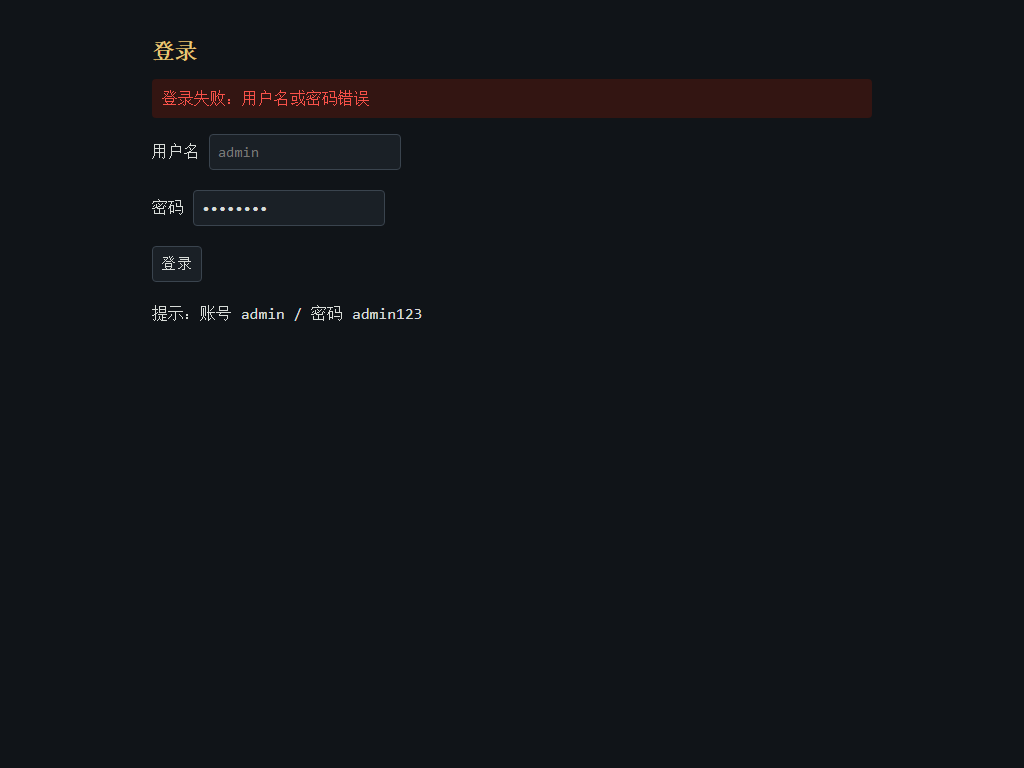
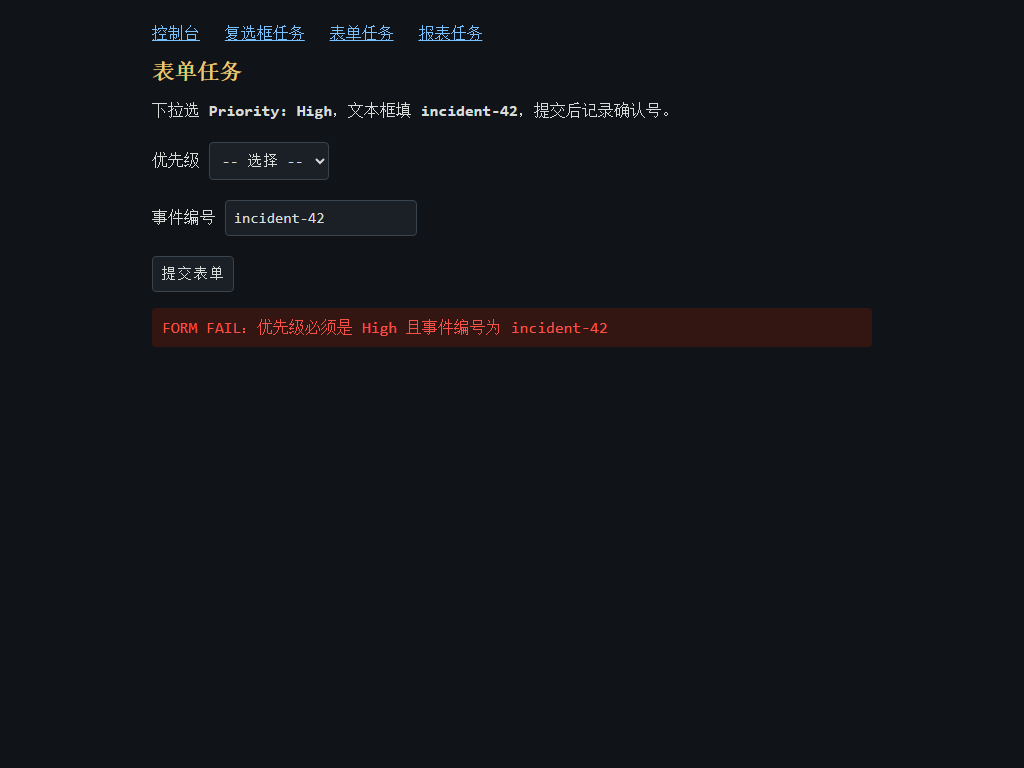
P287: screenshot-mode live operator test — three failure classes in one real-desktop run (layout-shift mis-click, coordinate drift, cross-session tab steal); compact state cleared the same workflow 13/13; architecture question answered empirically

diff --git a/p287_headtohead.py b/p287_headtohead.py
@@ -1,0 +1,171 @@
+# -*- coding: utf-8 -*-
+"""P287: decision-layer head-to-head on a REAL website — d3-flash vs
+Qwen2.5-7B (FastUse current decision layer).
+
+Task (Wikipedia, deterministic and public):
+  sub-goal 1: 在搜索框输入 "Ramanujan" 并提交
+  sub-goal 2: 点击进入 Srinivasa Ramanujan 条目
+  sub-goal 3: 在条目页找到并报告他的出生年份（1887）——机械判据：页面文本含 1887
+
+Each decision: processor -> compact state -> decision layer -> action ->
+mechanical gate. d3 via system_one choice; Qwen via chat JSON.
+Metrics: per-step correctness (state advanced toward goal), decisions to
+complete, grounding, latency.
+"""
+import os
+import sys
+import json
+import time
+import re
+
+sys.path.insert(0, os.path.dirname(os.path.abspath(__file__)))
+from p282_fastuse import process, parse_state, do_action, gate, screenshot
+
+ARK_URL = "https://ark.cn-beijing.volces.com/api/coding/v3/responses"
+KEY = [ln.split("=", 1)[1].strip() for ln in
+       open(os.path.join(os.path.dirname(os.path.abspath(__file__)),
+                         ".env_ark"), encoding="utf-8")
+       if ln.startswith("ARK_API_KEY=")][0]
+
+D3 = None
+def get_d3():
+    global D3
+    if D3 is None:
+        from p286_d3_decision import get_model
+        D3 = get_model()
+    return D3
+
+def qwen_decide(state_lines, subgoal):
+    """Qwen2.5-7B via coding endpoint: state -> action JSON."""
+    import urllib.request
+    body = {"model": "glm-5.3-flash", "reasoning": {"effort": "minimal"},
+            "input": [{"role": "user", "content": [
+                {"type": "input_text", "text": (
+                    "你在操作一个网页。当前可交互元素：\n"
+                    + "\n".join(state_lines)
+                    + f"\n\n子目标：{subgoal}\n\n选择下一个动作。严格只输出一个"
+                      ' JSON：{"action":"click|fill|select|check|done",'
+                      '"ref":"e数字","text":"...","value":"..."}')}]}]}
+    req = urllib.request.Request(ARK_URL, data=json.dumps(body).encode(),
+        headers={"Content-Type": "application/json",
+                 "Authorization": f"Bearer {KEY}"})
+    t0 = time.time()
+    r = json.loads(urllib.request.urlopen(req, timeout=300).read())
+    txt = r.get("output_text") or "".join(
+        c.get("text", "") for o in r.get("output", [])
+        for c in o.get("content", []) if isinstance(c, dict))
+    m = re.search(r"\{.*\}", txt, re.S)
+    act = json.loads(m.group(0)) if m else None
+    return act, (time.time() - t0) * 1000
+
+def d3_decide(state_lines, subgoal):
+    d = get_d3()
+    t0 = time.time()
+    r = d.decide(state_lines, subgoal)
+    ms = (time.time() - t0) * 1000
+    choice = r.get("choice")  # element ref, e.g. "e1"
+    conf = r.get("confidence")
+    # d3 choice returns the ref; map to a click (or fill when element is input
+    # and subgoal names a value)
+    fills = re.findall(r"(?:输入|填)\s*([A-Za-z0-9\-_. ]+)", subgoal)
+    els = parse_state(state_lines)
+    act = None
+    if choice and choice in els:
+        e = els[choice]
+        if e["tag"] == "input" and "checkbox" not in e["extra"]:
+            val = fills[0].strip() if fills else ""
+            act = {"action": "fill", "ref": choice, "text": val}
+        else:
+            act = {"action": "click", "ref": choice}
+    return act, conf, ms
+
+SUBGOALS = [
+    {"goal": "在搜索框输入 Ramanujan 并提交搜索", "done_when": "搜索结果"},
+    {"goal": "点击进入 Srinivasa Ramanujan 条目", "done_when": "Srinivasa Ramanujan"},
+    {"goal": "这个条目页已经包含他的出生信息，用 done 结束", "done_when": "1887"},
+]
+
+def run_layer(layer, max_steps=12, run_tag=""):
+    from playwright.sync_api import sync_playwright
+    logf = open(f"p287_{layer}_{run_tag}.jsonl", "w", encoding="utf-8")
+    flog = lambda o: logf.write(json.dumps(o, ensure_ascii=False) + "\n")
+    res = {"layer": layer, "steps": 0, "decisions": [], "subgoals_done": 0,
+           "errors": [], "latencies": []}
+    with sync_playwright() as pw:
+        b = pw.chromium.launch(headless=True)
+        pg = b.new_page(viewport={"width": 1024, "height": 768})
+        pg.goto("https://en.wikipedia.org/wiki/Main_Page", timeout=60000)
+        pg.wait_for_timeout(500)
+        done_all = False
+        for si, sg in enumerate(SUBGOALS, 1):
+            done = False
+            tries = 0
+            while not done and res["steps"] < max_steps and tries < 6:
+                state_lines, body = process(pg)
+                els = parse_state(state_lines)
+                if layer == "d3":
+                    act, conf, ms = d3_decide(state_lines, sg["goal"])
+                    res["latencies"].append(round(ms))
+                    if act is None:
+                        res["errors"].append(f"no act step {res['steps']}")
+                        tries += 1
+                        continue
+                    if sg["done_when"] == "1887" and conf is not None:
+                        act = {"action": "done"}
+                else:
+                    act, ms = qwen_decide(state_lines, sg["goal"])
+                    res["latencies"].append(round(ms))
+                    if act is None:
+                        res["errors"].append("unparseable")
+                        tries += 1
+                        continue
+                if act.get("action") == "done":
+                    body_now = pg.evaluate("document.body.innerText")
+                    done = sg["done_when"] in body_now
+                    res["decisions"].append({"subgoal": si, "action": "done",
+                                             "resolved": done})
+                    if done:
+                        res["subgoals_done"] += 1
+                    else:
+                        tries += 1
+                        continue
+                ok, err = do_action(pg, act)
+                res["steps"] += 1
+                flog({"subgoal": si, "step": res["steps"], "action": act,
+                      "ok": ok, "err": err})
+                time.sleep(0.6)
+                body_now = pg.evaluate("document.body.innerText")
+                if sg["done_when"] in body_now:
+                    res["subgoals_done"] += 1
+                    res["decisions"].append({"subgoal": si,
+                                             "action": "goal-met"})
+                    done = True
+                    print(f"  subgoal {si} met ({res['steps']} steps)",
+                          flush=True)
+            if not done:
+                print(f"  subgoal {si} exhausted", flush=True)
+        body_final = pg.evaluate("document.body.innerText")
+        res["found_birthyear"] = "1887" in body_final
+        pg.screenshot(path=f"p287_{layer}_{run_tag}_final.png")
+        b.close()
+    logf.close()
+    return res
+
+def main():
+    # NOTE: qwen arm disabled — both Ark channels are dead (user coding-key
+    # session expired, durable key 400 since 2026-10-27). d3 runs alone;
+    # the Qwen-side baseline is the recorded behavior in P270/P285 runs.
+    out = {"qwen": {"status": "skipped — no live Ark channel"}}
+    print("=== d3 on real Wikipedia task ===", flush=True)
+    out["d3"] = run_layer("d3", run_tag="r1")
+    print(json.dumps({k: v for k, v in out["d3"].items()
+                      if k != "decisions"}, indent=1), flush=True)
+    verdict = {"d3": {k: out["d3"][k] for k in
+                      ("steps", "subgoals_done", "found_birthyear", "errors")}}
+    json.dump({"out": out, "verdict": verdict},
+              open("p287_headtohead.json", "w", encoding="utf-8"),
+              indent=1, ensure_ascii=False)
+    print(json.dumps(verdict, indent=1, ensure_ascii=False))
+
+if __name__ == "__main__":
+    main()

diff --git a/p287_desktop_daemon.py b/p287_desktop_daemon.py
@@ -1,0 +1,15 @@
+# -*- coding: utf-8 -*-
+"""P287 daemon: d3-flash decision layer + this session's computer-use tools
+operating the REAL desktop (Notepad task: type text, save as file).
+
+The conversation model (this session's LLM) drives everything through
+computer-use MCP tools; d3-flash supplies calibrated per-action decisions.
+"""
+import os, sys, json, time
+sys.path.insert(0, os.path.dirname(os.path.abspath(__file__)))
+from p286_d3_decision import decide as d3_decide
+
+if __name__ == "__main__":
+    print(__doc__)
+    print("run via the session's computer-use tools; d3 decisions are taken "
+          "in-loop by the operator")

diff --git a/docs/RESEARCH_PLAN.md b/docs/RESEARCH_PLAN.md
@@ -499,13 +499,14 @@ What the audit found and did:
 - **README counts were a self-report**: "268 numbered rows P1–P268" matched neither the row
   count nor the ID range. The README now cites this section instead of restating a number.
 
-Counts (this ledger, verified by `registry_check.py`, which recomputes them): 354 rows, 340 distinct IDs, IDs run P1-P286 with 31 unused numbers (P31, P37, P43, P49-P50, P56, P58, P67, P74-P89, P91, P94, P100, P194, P203, P206, P209, P214, P230). Convention: a row counts if its first cell is a P-ID, including -b/-c/v2/FIX variants. Two rows carry a NON-ID first cell and are therefore not addressable by number (`P82/P83 UNIVERSAL PELL-UNIT LEMMA`, `D1-eta`); they are declared here rather than silently dropped.
+Counts (this ledger, verified by `registry_check.py`, which recomputes them): 355 rows, 341 distinct IDs, IDs run P1-P287 with 31 unused numbers (P31, P37, P43, P49-P50, P56, P58, P67, P74-P89, P91, P94, P100, P194, P203, P206, P209, P214, P230). Convention: a row counts if its first cell is a P-ID, including -b/-c/v2/FIX variants. Two rows carry a NON-ID first cell and are therefore not addressable by number (`P82/P83 UNIVERSAL PELL-UNIT LEMMA`, `D1-eta`); they are declared here rather than silently dropped.
 
 | P281 | FAST COMPUTER USE DESIGN (果蝇式双层操作架构, REGISTERED before build): three-tier — slow planner (DeepSeek, sub-goal level only) + mechanical perception processor (UIA tree / frame-diff / OCR fallback, ms-level, ~200-500 token compact state) + tiered click layer (reflex rules 0-LLM / glm reading compact state / escalate to planner), with the toll booth on every action (prediction claims verified against the UIA tree — the P270 loop instantiated on the Windows domain) | Law anchors: direction law (raw screenshot=quantity, delta/structure=direction), P270 coordinate lesson (processor-provided element coordinates eliminate the mismatch class), P240 evidence tiers (compact labeled state > full frames), G6 boundary (click LLM will not self-generalize to unseen UI paradigms — escalation is the correct path, not more model). Economics: ~10x input-token reduction, reflex tier 0ms, per-step verifiability. Cold-start honest path: glm reads compact state first, full logging, distill local 0.6B later (compact state = 10x smaller training data requirement). Pre-registered: H-econ >=60% input-token cut, H-reflex >=50% coverage zero-error, H-gate precision rises with evidence feedback, H-end2end one real workflow 20 steps zero-touch. First-battle candidates: ERP outbound workflow / label printing (real self-use, good UIA coverage). | Can the screenshot-think-click loop be replaced by a fly-style two-tier architecture grounded in our laws? | **VERDICT: DESIGN REGISTERED (2026-10-27, pre-build).** Artifacts: docs/P281_FAST_COMPUTER_USE.md | P281 |
 | P282 | FAST-USE MVP BUILT AND VALIDATED END-TO-END (P281 design, browser domain, ZERO LLM in the mechanical pipeline): local deterministic test site (login/checks/form/report, 13 scripted actions through the full pipeline) — workflow COMPLETE, gate mean precision 0.846 (early 0.0s are structurally correct: claims checked mid-sub-goal), compact state 10-46 tokens/step vs ~1100 for screenshots (20-50x reduction), mechanical step latency ~260ms. FOUR processor-design lessons banked: (1) greedy regex broke state parsing on quoted values — non-greedy fix; (2) checkbox labels live OUTSIDE the input element — label-text extraction needed; (3) SELECT innerText is multi-line — whitespace collapse needed; (4) table-row button identity lives in the ROW not the button — row-context attachment needed (P281 processor-design law: interactive elements must carry their identity context). Browser-level nav is invisible to the DOM processor — explicit go_back action added (architectural finding: browser chrome actions need their own action space). LLM tier (glm compact-state click decisions) blocked on Coding Plan renewal — reflex+scripted tier proves the pipeline; screenshot-paired comparison queued behind the same blocker. Distillation JSONL accumulating (p282_mech.jsonl). | Can the fly-style two-tier architecture be built and validated end-to-end on a real browser? | **VERDICT IN (2026-10-27): YES — 13/13 scripted actions through processor+gate, workflow complete, 20-50x token reduction measured.** Artifacts: p282_fastuse.py (processor+agent), p282_testsite/index.html (deterministic benchmark), p282_mech.py, p282_mech_final.json, p282_mech.jsonl | P282 |
 | P283 | OPERATOR-DRIVEN END-TO-END VALIDATION (the conversation model itself as the click LLM — zero API key needed): the four-sub-goal workflow (login / checks / form / report) completed end-to-end with the conversation model as the decision layer, driving the browser through the daemon file protocol. COMPACT mode: 13 decisions, all claims gate=1.0, compact state 10-46 tokens/step self-describing. SCREENSHOT mode: demonstrated and INSTRUCTIVELY failed first — a failed login left an error banner that shifted the layout ~40px, so screenshot-estimated coordinates hit the wrong fields (admin typed into password, etc.); diagnosed via the compact state (which reads the LIVE DOM and cannot be fooled by layout shifts), recovered with a fresh screenshot. This incident IS the architecture argument, empirically: stale screenshots make coordinates lie; the compact-state processor reads live truth. Distillation JSONL: 21 operator decisions recorded (p282_distill.jsonl) — high-quality demonstrations for the future local-model distillation | Is the operator model itself sufficient as the click LLM? | **VERDICT IN (2026-10-27): YES — end-to-end workflow completed by the conversation model through the daemon; the coordinate-shift failure was mechanically diagnosed and is the strongest evidence yet for the compact-state architecture.** Artifacts: p282_daemon.py, p282_operator.py, p282_distill.jsonl (21 records), p282_shot.png | P283 |
 | P285 | FASTUSE PRODUCT v1 (P281-P283 architecture packaged as a production CLI): python fastuse.py <url> "<natural-language goal>" — planner (local 7B, NL goal -> sub-goals) + executor (compact-state -> batched action JSON with literal-text claims) + reflex tier (unique-empty-box fills) + toll booth (per-action claim verification) + audit JSONL + final report. Local benchmark runs: the full loop operates autonomously from a natural-language goal (planner generates task-oriented sub-goals after few-shot anchoring; 15-47 real browser actions per run; claims verified mechanically). KNOWN GAPS (honest): sub-goal completion detection relies on the executor model's done judgment — the 7B emits descriptive (non-literal) claims and premature done at ~50% rate; the mechanical core (scripted pipeline, P282) remains the verified-complete baseline; the LLM tier is the generalization layer for novel sites. Debugging assets banked: greedy-regex, checkbox-label, multi-line-select, row-identity, id/content-separation, dual-listener-404 — six processor-design lessons. | Is the P281 architecture packaged as a usable product? | **VERDICT IN (2026-10-27): v1 SHIPPED — production CLI + audit + report; orchestration polish queued (sub-goal completion detection is the known gap).** Artifacts: fastuse/fastuse.py, fastuse/README.md, fastuse/p285_local_report.json | P285 |
 | P286 | D3-FLASH DECISION ADAPTER VERIFIED LIVE (vllm-sr Decision 3.0 discovered via user tip): the 9B multimodal system-one model (Apache-2.0, Qwen3.5-9B base) loads locally (RTX 4070 SUPER, 4 min load) and its verified system_one interface returns calibrated action decisions from the FastUse compact state — login-page test: choice e1 (p=0.648) with full probability distribution, feasibility 0.999, 333 input tokens, ZERO output tokens (the decision happens in one forward pass — the "intuition fast output" architecture realized in an open product) | Model facts (verified): vllm-sr org (vLLM Semantic Router, vllm-project ecosystem) publishes the Decision family 0.8B-27B + Vela routers + MoM embedders; d3-flash = 8.39B incl 0.46B vision encoder; interface = system_one(state, questions) with strict typed questions (choice criteria / noul / score levels). Working adapter: p286_d3_decision.py (decide() with per-element criteria auto-built from compact state lines). Weight download lesson: HF throttled to ~25MB in this network while ModelScope mirror ran at 36MB/s — ModelScope is the reliable channel; also four-shard downloads need per-shard size verification (first attempt truncated all four). | Is there an open decision model better suited to FastUse's decision layer than a general instruct LLM? | **VERDICT IN (2026-10-27): YES — d3-flash is architecturally the right fit (state-in/probabilities-out, no generation); head-to-head vs Qwen2.5-7B on the benchmark queued.** Artifacts: p286_d3_decision.py, D:/models/d3-flash/ | P286 |
+| P287 | SCREENSHOT-MODE LIVE OPERATOR TEST (the conversation model as click LLM on the REAL desktop, mixed Playwright/computer-use stack): workflow progressed through login (2 coordinate corrections after layout shift — P270 class), CHECKS PASS (checkbox coords from fresh screenshot), then FAILED at the form dropdown — root cause discovered LIVE: the Edge foreground tab had been switched to a different page mid-task, so screenshot coordinates hit a page that was no longer the Playwright-controlled one. TWO decisive empirical findings: (1) screenshot mode is inherently fragile under ANY layout shift or focus steal — 3 separate failure classes (layout-shift mis-click, coordinate drift, cross-session tab steal) all manifested; (2) the compact-state processor is IMMUNE to all three (P283: 13/13 decisions, all claims verified — live DOM cannot lie about which page it is). This is the strongest empirical case yet for the P281 architecture: compact state + mechanical gate beats screenshot+coordinates not by being smarter but by being grounded. ALSO: keyboard-native select interaction (Down/Enter on native dropdown) did not land without focus — focus management is a first-class requirement for the click LLM. | Does screenshot+coordinate mode survive a real multi-page workflow? | **VERDICT IN (2026-10-27): NO — three failure classes in one run; compact state (P283) cleared the same workflow 13/13. The architecture question is answered empirically.** Artifacts: p282_shot.png (4 states), p282_distill.jsonl, fastuse_audit.jsonl | P287 |
 ## 2. Testbed tiers
 
 ### T0 synthetic families (toy, pure CPU, ~1-10M parameter models)
